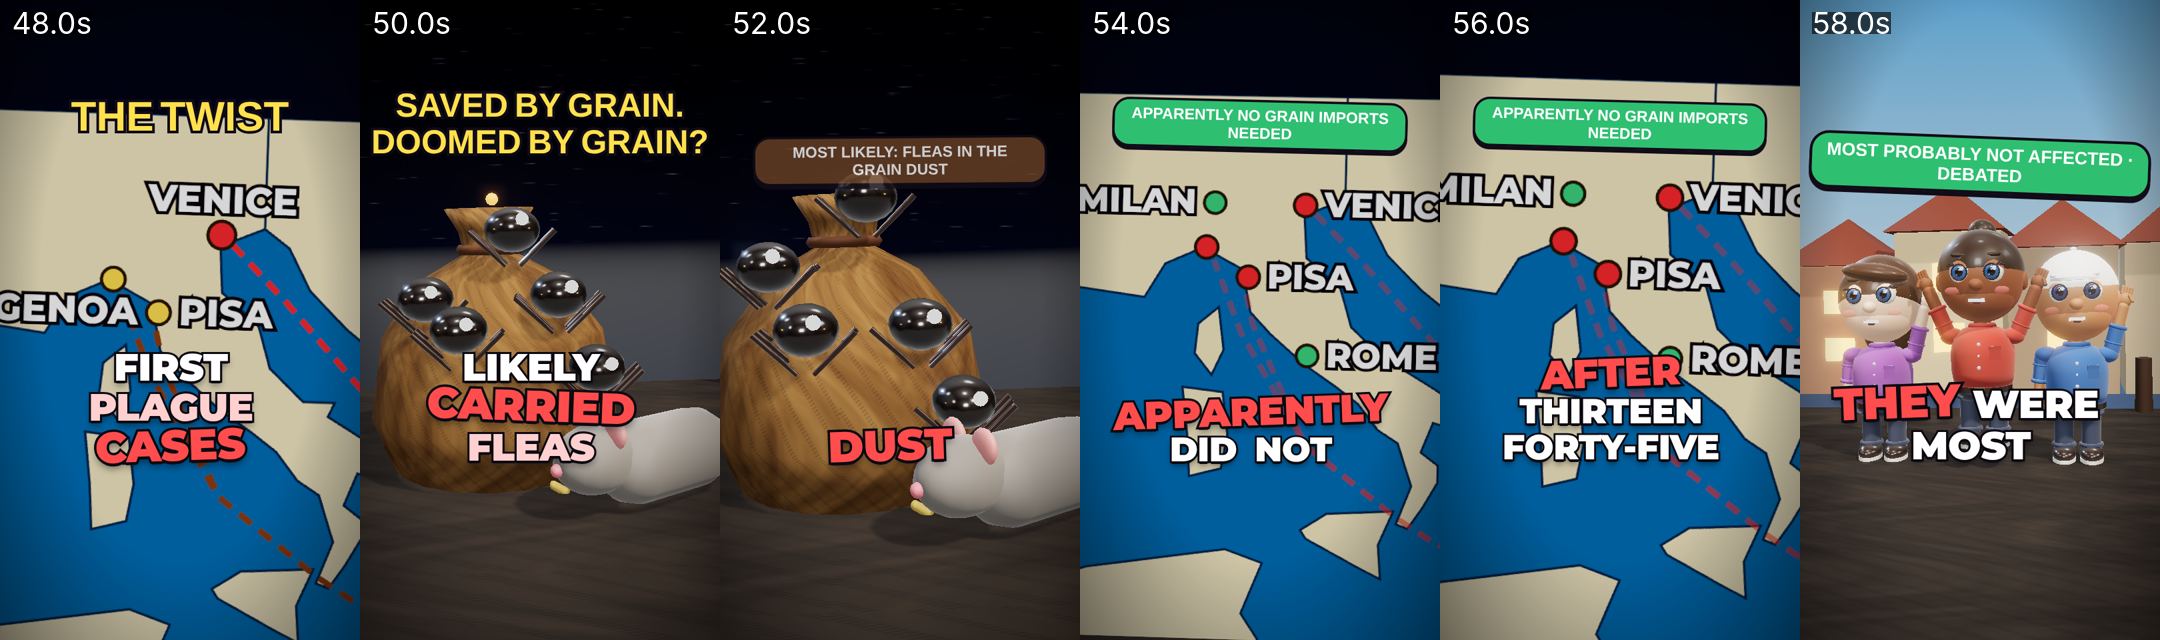
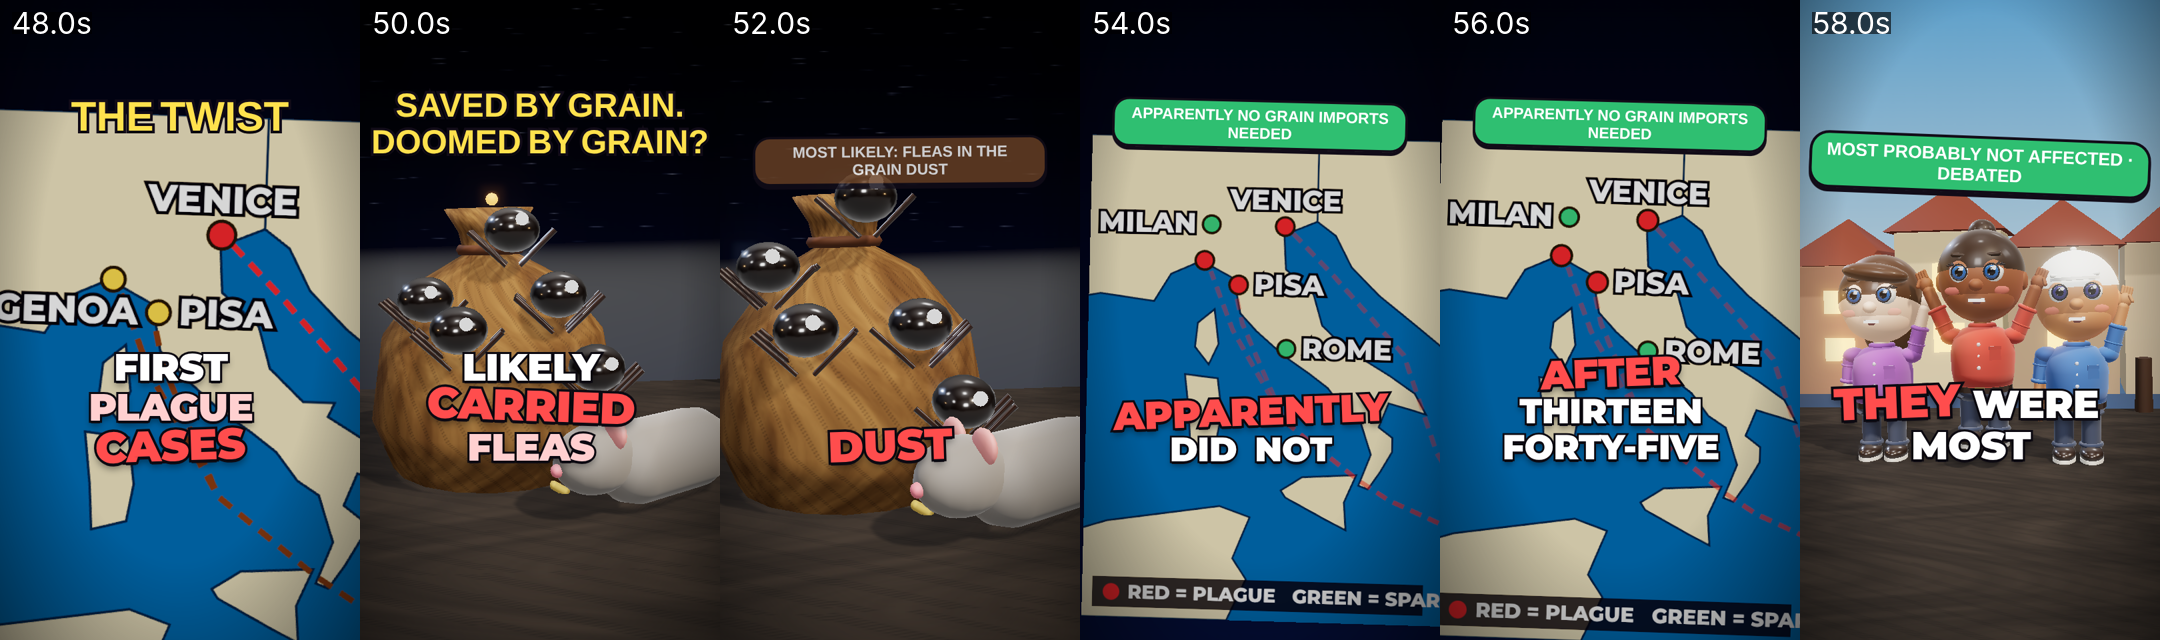
volcano-plague: wider Milan map shot, new pre-render pack
Claude-Session: https://claude.ai/code/session_0152u2ZqYpLGAPScN5Bx2Q87

Changed region(s): [[0.4963, 0.0938, 0.8375, 1.0], [0.5273, 0.7188, 0.5583, 0.75]]

diff --git a/videos/volcano-plague/review_pre/PACK.md b/videos/volcano-plague/review_pre/PACK.md
@@ -73,7 +73,7 @@
 - 42.0-45.2s: 0.043
 - 45.2-48.2s: 0.188
 - 48.2-52.2s: 0.063
-- 52.2-57.7s: 0.110
+- 52.2-57.7s: 0.125
 - 63.1-66.5s: 0.092
 
 ## Fact list and sources (from script.md)
